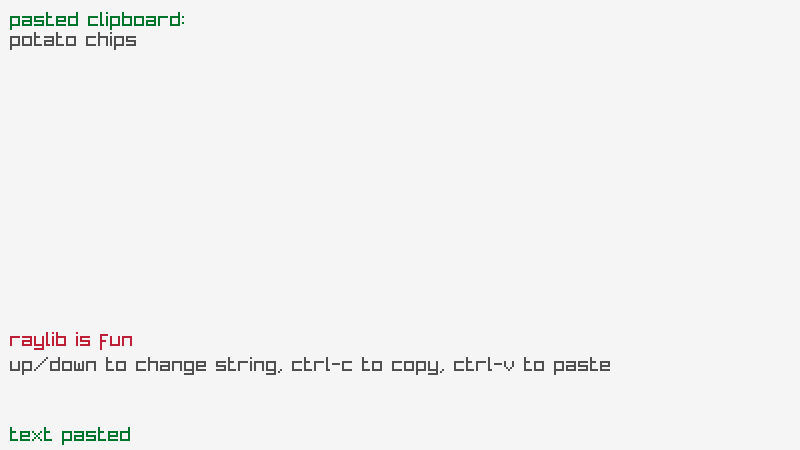
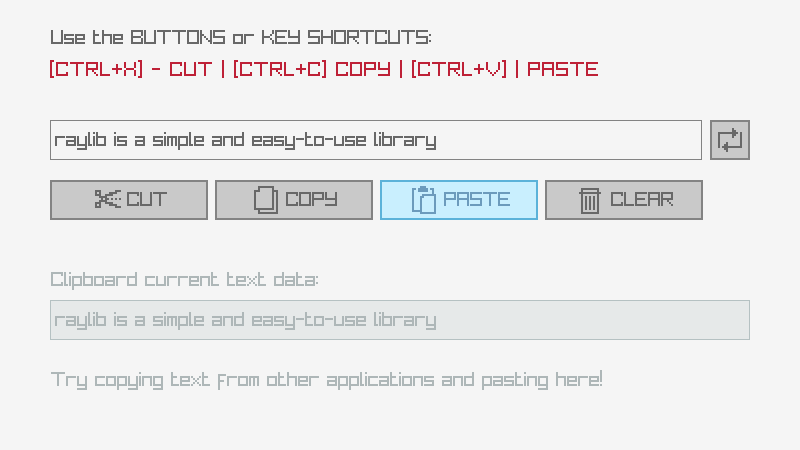
REDESIGNED: `core_clipboard_text`, based on #5248

diff --git a/examples/core/core_clipboard_text.c b/examples/core/core_clipboard_text.c
@@ -2,22 +2,23 @@
 *
 *   raylib [core] example - clipboard text
 *
-*   Example complexity rating: [★☆☆☆] 1/4
-*
 *   Example originally created with raylib 5.6-dev, last time updated with raylib 5.6-dev
 *
-*   Example contributed by Robin (@RobinsAviary) and reviewed by Ramon Santamaria (@raysan5)
+*   Example contributed by Ananth S (@Ananth1839) and reviewed by Ramon Santamaria (@raysan5)
 *
 *   Example licensed under an unmodified zlib/libpng license, which is an OSI-certified,
 *   BSD-like license that allows static linking with closed source software
 *
-*   Copyright (c) 2025 Robin (@RobinsAviary)
+*   Copyright (c) 2025 Ananth S (@Ananth1839)
 *
 ********************************************************************************************/
 
 #include "raylib.h"
 
-#include <stdio.h>
+#define RAYGUI_IMPLEMENTATION
+#include "raygui.h"
+
+#define MAX_TEXT_SAMPLES    5
 
 //------------------------------------------------------------------------------------
 // Program main entry point
@@ -31,30 +32,32 @@ int main(void)
 
     InitWindow(screenWidth, screenHeight, "raylib [core] example - clipboard text");
 
-    const char *clipboardText = NULL;
+    // Define some sample texts
+    const char *sampleTexts[MAX_TEXT_SAMPLES] = {
+        "Hello from raylib!",
+        "The quick brown fox jumps over the lazy dog",
+        "Clipboard operations are useful!",
+        "raylib is a simple and easy-to-use library",
+        "Copy and paste me!"
+    };
 
-    // List of text the user can switch through and copy
-    const char *copyableText[] = { "raylib is fun", "hello, clipboard!", "potato chips" };
+    char *clipboardText = NULL;
+    char inputBuffer[256] = "Hello from raylib!"; // Random initial string
 
-    unsigned int textIndex = 0;
+    // UI required variables
+    bool textBoxEditMode = false;
 
-    const char *popupText = NULL;
+    bool btnCutPressed = false;
+    bool btnCopyPressed = false;
+    bool btnPastePressed = false;
+    bool btnClearPressed = false;
+    bool btnRandomPressed = false;
 
-    // Initialize timers
-    // The amount of time the pop-up text is on screen, before fading
-    const float maxTime = 3.0f;
-    float textTimer = 0.0f;
-    // The length of time text is offset
-    const float animMaxTime = 0.1f;
-    float pasteAnim = 0.0f;
-    float copyAnim = 0.0f;
-    int copyAnimMult = 1;
-    float textAnim = 0.0f;
-    float textAlpha = 0.0f;
-    // Offset amount for animations
-    const int offsetAmount = -4;
+    // Set UI style
+    GuiSetStyle(DEFAULT, TEXT_SIZE, 20);
+    GuiSetIconScale(2);
 
-    SetTargetFPS(60);
+    SetTargetFPS(60);               // Set our game to run at 60 frames-per-second
     //--------------------------------------------------------------------------------------
 
     // Main game loop
@@ -62,83 +65,56 @@ int main(void)
     {
         // Update
         //----------------------------------------------------------------------------------
-        // Check if the user has pressed the copy/paste key combinations
-        bool pastePressed = (IsKeyDown(KEY_LEFT_CONTROL) && IsKeyPressed(KEY_V));
-        bool copyPressed = (IsKeyDown(KEY_LEFT_CONTROL) && IsKeyPressed(KEY_C));
-
-        // Update animation timers
-        if (textTimer > 0) textTimer -= GetFrameTime();
-        if (pasteAnim > 0) pasteAnim -= GetFrameTime();
-        if (copyAnim > 0) copyAnim -= GetFrameTime();
-        if (textAnim > 0) textAnim -= GetFrameTime();
-
-        if (pastePressed)
+        // Handle button interactions
+        if (btnCutPressed)
         {
-            // Most operating systems hide this information until the user presses Ctrl-V on the window.
+            SetClipboardText(inputBuffer);
+            clipboardText = GetClipboardText();
+            inputBuffer[0] = '\0'; // Quick solution to clear text
+            //memset(inputBuffer, 0, 256); // Clear full buffer properly
+        }
 
-            // Check to see if the clipboard contains an image
-            // This function does nothing outside of Windows, as it directly calls the Windows API
-            Image image = GetClipboardImage();
-            
-            if (IsImageValid(image))
+        if (btnCopyPressed)
+        {
+            SetClipboardText(inputBuffer); // Copy text to clipboard
+            clipboardText = GetClipboardText(); // Get text from clipboard
+        }
+
+        if (btnPastePressed)
+        {
+            // Paste text from clipboard
+            clipboardText = GetClipboardText();
+            if (clipboardText != NULL) TextCopy(inputBuffer, clipboardText);
+        }
+
+        if (btnClearPressed)
+        {
+            inputBuffer[0] = '\0'; // Quick solution to clear text
+            //memset(inputBuffer, 0, 256); // Clear full buffer properly
+        }
+
+        if (btnRandomPressed)
+        {
+            // Get random text from sample list
+            TextCopy(inputBuffer, sampleTexts[GetRandomValue(0, MAX_TEXT_SAMPLES - 1)]);
+        }
+
+        // Quick cut/copy/paste with keyboard shortcuts
+        if (IsKeyDown(KEY_LEFT_CONTROL) || IsKeyDown(KEY_RIGHT_CONTROL))
+        {
+            if (IsKeyPressed(KEY_X))
             {
-                UnloadImage(image);
-                popupText = "clipboard contains image";
+                SetClipboardText(inputBuffer);
+                inputBuffer[0] = '\0'; // Quick solution to clear text
             }
-            else
+
+            if (IsKeyPressed(KEY_C)) SetClipboardText(inputBuffer);
+
+            if (IsKeyPressed(KEY_V))
             {
                 clipboardText = GetClipboardText();
-                
-                popupText = "text pasted";
-                pasteAnim = animMaxTime;
+                if (clipboardText != NULL) TextCopy(inputBuffer, clipboardText);
             }
-
-            // Reset animation values
-            textTimer = maxTime;
-            textAnim = animMaxTime;
-            textAlpha = 1;
-        }
-
-        // React to the user pressing copy
-        if (copyPressed)
-        {
-            // Set the text on the user's clipboard
-            SetClipboardText(copyableText[textIndex]);
-
-            // Reset values
-            textTimer = maxTime;
-            textAnim = animMaxTime;
-            copyAnim = animMaxTime;
-            copyAnimMult = 1;
-            textAlpha = 1;
-            popupText = "text copied";
-        }
-
-        // Switch to the next item in the list when the user presses up
-        if (IsKeyPressed(KEY_UP))
-        {
-            // Reset animation
-            copyAnim = animMaxTime;
-            copyAnimMult = 1;
-
-            textIndex += 1;
-
-            if (textIndex >= sizeof(copyableText) / sizeof(const char*)) // Length of array
-            { 
-                // Loop back to the other end
-                textIndex = 0;
-            }
-        }
-
-        // Switch to the previous item in the list when the user presses down
-        if (IsKeyPressed(KEY_DOWN))
-        {
-            // Reset animation
-            copyAnim = animMaxTime;
-            copyAnimMult = -1;
-
-            if (textIndex == 0) textIndex = (sizeof(copyableText)/sizeof(const char*)) - 1;
-            else textIndex -= 1;
         }
         //----------------------------------------------------------------------------------
 
@@ -146,40 +122,32 @@ int main(void)
         //----------------------------------------------------------------------------------
         BeginDrawing();
 
-			ClearBackground(RAYWHITE);
+        ClearBackground(RAYWHITE);
 
-			// Draw the user's pasted text, if there is any yet
-			if (clipboardText)
-			{
-				// Offset animation
-				int offset = 0;
-				if (pasteAnim > 0) offset = offsetAmount;
+        // Draw instructions
+        GuiLabel((Rectangle){ 50, 20, 700, 36 }, "Use the BUTTONS or KEY SHORTCUTS:");
+        DrawText("[CTRL+X] - CUT | [CTRL+C] COPY | [CTRL+V] | PASTE", 50, 60, 20, MAROON);
 
-				// Draw the pasted text
-				DrawText("pasted clipboard:", 10, 10 + offset, 20, DARKGREEN);
-				DrawText(clipboardText, 10, 30 + offset, 20, DARKGRAY);
-			}
+        // Draw text box
+        if (GuiTextBox((Rectangle){ 50, 120, 652, 40 }, inputBuffer, 256, textBoxEditMode)) textBoxEditMode = !textBoxEditMode;
 
-			// Offset animation
-			int textOffset = 0;
-			if (copyAnim > 0) textOffset = offsetAmount;
+        // Random text button
+        btnRandomPressed = GuiButton((Rectangle){ 50 + 652 + 8, 120, 40, 40 }, "#77#");
 
-			// Draw copyable text and controls
-			DrawText(copyableText[textIndex], 10, 330 + (textOffset * copyAnimMult), 20, MAROON);
-			DrawText("up/down to change string, ctrl-c to copy, ctrl-v to paste", 10, 355, 20, DARKGRAY);
+        // Draw buttons
+        btnCutPressed = GuiButton((Rectangle){ 50, 180, 158, 40 }, "#17#CUT");
+        btnCopyPressed = GuiButton((Rectangle){ 50 + 165, 180, 158, 40 }, "#16#COPY");
+        btnPastePressed = GuiButton((Rectangle){ 50 + 165*2, 180, 158, 40 }, "#18#PASTE");
+        btnClearPressed = GuiButton((Rectangle){ 50 + 165*3, 180, 158, 40 }, "#143#CLEAR");
 
-			// Alpha / Offset animation
-			if (textAlpha > 0)
-			{
-				// Offset animation
-				int offset = 0;
-				if (textAnim > 0) offset = offsetAmount;
-				// Draw pop up text
-				DrawText(popupText, 10, 425 + offset, 20, ColorAlpha(DARKGREEN, textAlpha));
-
-				// Fade-out animation
-				if (textTimer < 0) textAlpha -= GetFrameTime();
-			}
+        // Draw clipboard status
+        GuiSetState(STATE_DISABLED);
+        GuiLabel((Rectangle){ 50, 260, 700, 40 }, "Clipboard current text data:");
+        GuiSetStyle(TEXTBOX, TEXT_READONLY, 1);
+        GuiTextBox((Rectangle){ 50, 300, 700, 40 }, clipboardText, 256, false);
+        GuiSetStyle(TEXTBOX, TEXT_READONLY, 0);
+        GuiLabel((Rectangle){ 50, 360, 700, 40 }, "Try copying text from other applications and pasting here!");
+        GuiSetState(STATE_NORMAL);
 
         EndDrawing();
         //----------------------------------------------------------------------------------

diff --git a/examples/README.md b/examples/README.md
@@ -69,7 +69,7 @@ Examples using raylib[core](../src/rcore.c) platform functionality like window c
 | [core_directory_files](core/core_directory_files.c) | <img src="core/core_directory_files.png" alt="core_directory_files" width="80"> | ⭐☆☆☆ | 5.5 | 5.6 | [Hugo ARNAL](https://github.com/hugoarnal) |
 | [core_highdpi_testbed](core/core_highdpi_testbed.c) | <img src="core/core_highdpi_testbed.png" alt="core_highdpi_testbed" width="80"> | ⭐☆☆☆ | 5.6-dev | 5.6-dev | [Ramon Santamaria](https://github.com/raysan5) |
 | [core_screen_recording](core/core_screen_recording.c) | <img src="core/core_screen_recording.png" alt="core_screen_recording" width="80"> | ⭐⭐☆☆ | 5.6-dev | 5.6-dev | [Ramon Santamaria](https://github.com/raysan5) |
-| [core_clipboard_text](core/core_clipboard_text.c) | <img src="core/core_clipboard_text.png" alt="core_clipboard_text" width="80"> | ⭐☆☆☆ | 5.6-dev | 5.6-dev | [Robin](https://github.com/RobinsAviary) |
+| [core_clipboard_text](core/core_clipboard_text.c) | <img src="core/core_clipboard_text.png" alt="core_clipboard_text" width="80"> | ⭐☆☆☆ | 5.6-dev | 5.6-dev | [Ananth S](https://github.com/Ananth1839) |
 | [core_text_file_loading](core/core_text_file_loading.c) | <img src="core/core_text_file_loading.png" alt="core_text_file_loading" width="80"> | ⭐☆☆☆ | 5.5 | 5.6 | [Aanjishnu Bhattacharyya](https://github.com/NimComPoo-04) |
 | [core_compute_hash](core/core_compute_hash.c) | <img src="core/core_compute_hash.png" alt="core_compute_hash" width="80"> | ⭐⭐☆☆ | 5.6-dev | 5.6-dev | [Ramon Santamaria](https://github.com/raysan5) |
 
